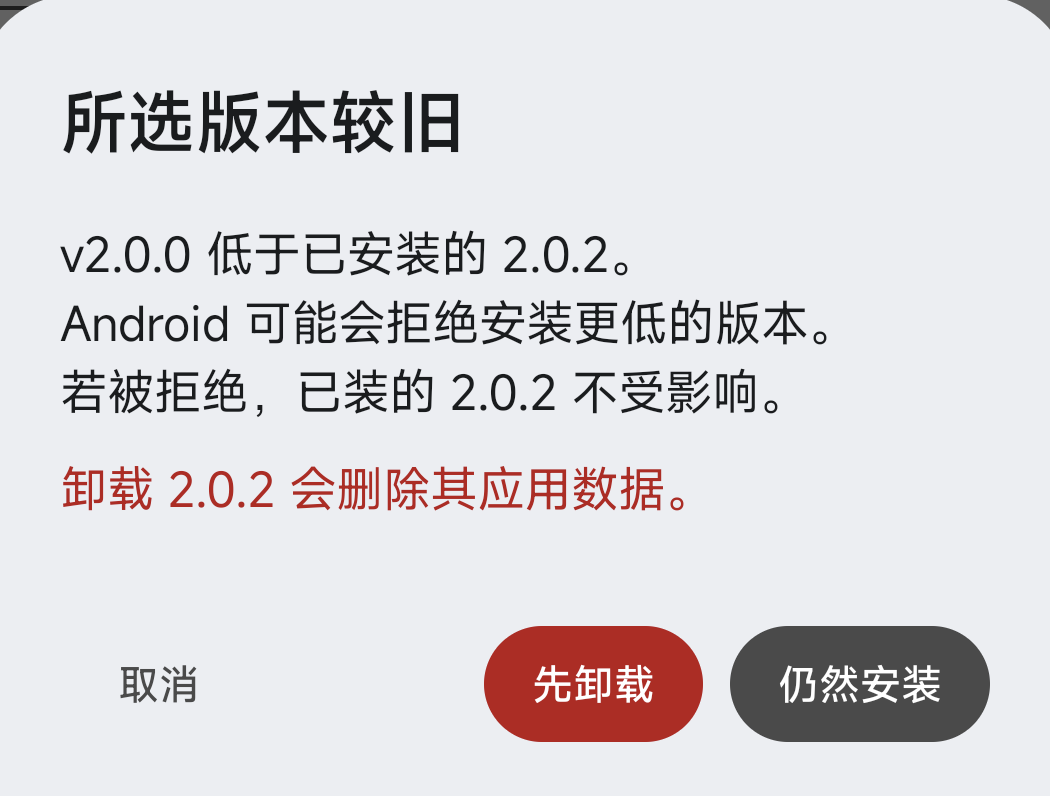
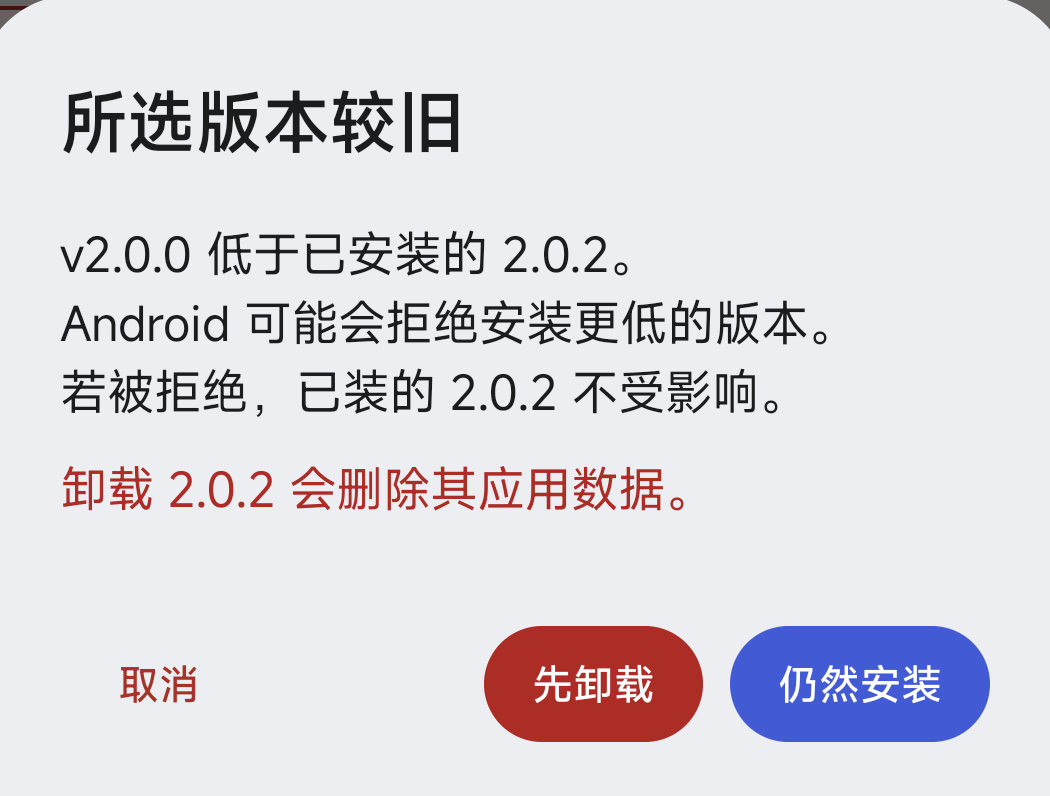
fix: give the primary action a fixed colour instead of the accent
AccentId.CRIMSON is B3261E and the error colour is BA1A1A — near-identical reds.
Under that accent a themed fill made the safe action look like the destructive
one, so uninstall and install were both red blocks.

KomiButton gains optional containerColor/contentColor, defaulting to Unspecified
so every existing call site is unchanged. The dialog passes a fixed blue for
Install anyway: blue reads as an action under any accent, and it stays clearly
distinct from the error red. Verified on device — sampled pixels are ECEEF2 for
Cancel, AB2D25 for Uninstall and 425AD3 for Install anyway.

Changed region(s): [[0.6705, 0.7839, 0.9448, 0.9347], [0.0914, 0.8141, 0.1829, 0.9045], [0.0, 0.0, 0.0305, 0.0302]]

diff --git a/core/presentation/src/commonMain/kotlin/zed/rainxch/core/presentation/components/buttons/KomiButton.kt b/core/presentation/src/commonMain/kotlin/zed/rainxch/core/presentation/components/buttons/KomiButton.kt
@@ -79,6 +79,11 @@ fun KomiButton(
     fullWidth: Boolean = false,
     leadingIcon: ImageVector? = null,
     trailingIcon: ImageVector? = null,
+    // Fixed colours, for actions whose meaning must not follow the accent — an accent
+    // can be chosen close to the error colour, which would make a themed fill read as
+    // danger. Unspecified keeps the themed appearance.
+    containerColor: Color = Color.Unspecified,
+    contentColor: Color = Color.Unspecified,
 ) {
     when (val personality = LocalPersonality.current) {
         is MangaPersonality -> {
@@ -95,6 +100,8 @@ fun KomiButton(
                 fullWidth = fullWidth,
                 leadingIcon = leadingIcon,
                 trailingIcon = trailingIcon,
+                containerColor = containerColor,
+                contentColor = contentColor,
             )
         }
 
@@ -111,6 +118,8 @@ fun KomiButton(
                 fullWidth = fullWidth,
                 leadingIcon = leadingIcon,
                 trailingIcon = trailingIcon,
+                containerColor = containerColor,
+                contentColor = contentColor,
             )
         }
     }
@@ -130,6 +139,8 @@ private fun MangaButton(
     fullWidth: Boolean,
     leadingIcon: ImageVector?,
     trailingIcon: ImageVector?,
+    containerColor: Color,
+    contentColor: Color,
 ) {
     val colors = personality.colors
     val metrics = buttonMetrics(size)
@@ -140,8 +151,10 @@ private fun MangaButton(
 
     val flat = variant == KomiButtonVariant.Text
     val ambientInk = LocalContentColor.current
-    val container = mangaButtonContainer(variant, colors)
-    val contentColor = mangaButtonContent(variant, colors, ambientInk)
+    val container =
+        if (containerColor != Color.Unspecified) containerColor else mangaButtonContainer(variant, colors)
+    val contentColor =
+        if (contentColor != Color.Unspecified) contentColor else mangaButtonContent(variant, colors, ambientInk)
     val borderColor = if (container == Color.Transparent) contentColor else colors.outline
     val stamped = !flat && container != Color.Transparent
     val sweep =
@@ -234,6 +247,8 @@ private fun ClassicButton(
     fullWidth: Boolean,
     leadingIcon: ImageVector?,
     trailingIcon: ImageVector?,
+    containerColor: Color,
+    contentColor: Color,
 ) {
     val colors = personality.colors
     val metrics = buttonMetrics(size)
@@ -264,6 +279,15 @@ private fun ClassicButton(
                 modifier = buttonModifier,
                 enabled = active,
                 contentPadding = contentPadding,
+                colors =
+                    if (containerColor != Color.Unspecified || contentColor != Color.Unspecified) {
+                        ButtonDefaults.buttonColors(
+                            containerColor = containerColor,
+                            contentColor = contentColor,
+                        )
+                    } else {
+                        ButtonDefaults.buttonColors()
+                    },
                 content = content,
             )
         }

diff --git a/feature/details/presentation/src/commonMain/kotlin/zed/rainxch/details/presentation/DetailsRoot.kt b/feature/details/presentation/src/commonMain/kotlin/zed/rainxch/details/presentation/DetailsRoot.kt
@@ -32,6 +32,7 @@ import androidx.compose.runtime.remember
 import androidx.compose.runtime.rememberCoroutineScope
 import androidx.compose.runtime.setValue
 import androidx.compose.ui.Alignment
+import androidx.compose.ui.graphics.Color
 import androidx.compose.ui.Modifier
 import androidx.compose.ui.input.key.Key
 import androidx.compose.ui.input.key.KeyEventType
@@ -272,8 +273,13 @@ fun DetailsRoot(
                                 viewModel.onAction(DetailsAction.OnConfirmDowngradeInstall)
                             },
                             label = stringResource(Res.string.install_anyway),
-                            variant = KomiButtonVariant.Text,
+                            variant = KomiButtonVariant.Primary,
                             size = KomiButtonSize.Sm,
+                            // Fixed blue: the accent may itself be red (CRIMSON is B3261E,
+                            // the error colour is BA1A1A), which would make the safe
+                            // action look like the destructive one.
+                            containerColor = Color(0xFF3B5BDB),
+                            contentColor = Color.White,
                         )
                     }
                 }
